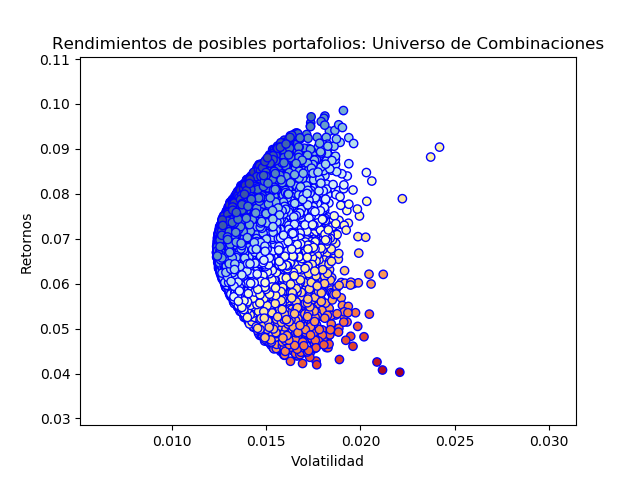
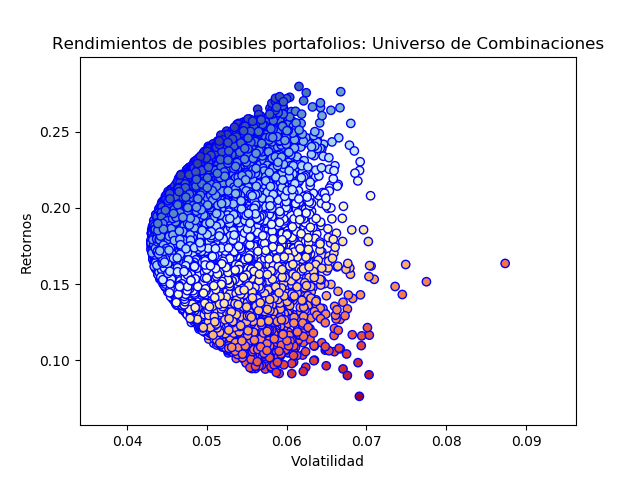
Add files via upload

diff --git a/Markowitz/Markowitz vs. The World.py b/Markowitz/Markowitz vs. The World.py
@@ -1,0 +1,81 @@
+import pandas as pd
+import matplotlib.pyplot as plt
+import numpy as np
+from datetime import datetime
+start = datetime(2010,1,4)
+import pandas_datareader.data as web
+
+#Parametros
+dias=600
+training_start = datetime(2010,1,4)
+training_finish = datetime(2018,6,15)
+testing_start = datetime(2019,1,1)
+testing_finish = datetime(2018,6,15)
+
+#Market Data
+market_data = web.get_data_yahoo(["^GSPC", "^GDAXI", "^FCHI",  "^N225", "^HSI", "^BVSP", "^MXX", "XWD.TO"], start)
+market_data = market_data["Close"].fillna(method="ffill")
+activos = ["^GSPC", "^GDAXI", "^FCHI",  "^N225", "^HSI", "^BVSP", "^MXX"] 
+
+#Risk Free
+US_rates = web.get_data_fred(["DTB3", "DGS3MO", "DTB6", "DGS6MO", "DTB1YR", "DGS2", "DGS10"], start).fillna(method="ffill")
+US_rates = (US_rates["DTB1YR"].loc[training_start:training_finish].mean()/100)
+
+training = market_data.loc[training_start:training_finish,activos].pct_change(dias).dropna().mean() - US_rates
+
+#FUNCIÃ“N DE PORTAFOLIO Ã“PTIMO
+def portafolio_optimo(retornos):
+    retornos_portafolio = []                                                 
+    volatilidad_portafolio = [] 
+    sharpe_ratio = []
+    pesos_activos = []
+    numero_activos = len(activos) 
+    simulaciones = 50000 
+    cov = np.cov(retornos) 
+    for portfolio_n in range(simulaciones):
+        pesos = np.random.random(numero_activos) 
+        pesos /= np.sum(pesos) 
+        retorno = np.dot(pesos, retornos) 
+        volatilidad = np.sqrt(np.dot(pesos.T, np.dot(cov, pesos))) 
+        sharpe = retorno/volatilidad 
+        retornos_portafolio.append(retorno) 
+        volatilidad_portafolio.append(volatilidad) 
+        sharpe_ratio.append(sharpe) 
+        pesos_activos.append(pesos)
+    portafolio = {'Retornos': retornos_portafolio,
+             'Volatilidad': volatilidad_portafolio,
+             'Ratio de Sharpe': sharpe_ratio}
+    for contador, activo in enumerate(activos):
+        portafolio[activo+' Peso'] = [Peso[contador] for Peso in pesos_activos]
+    global combinaciones, max_sharpe, info_sharpe, pesos_optimos 
+    
+    #Portafolio de Sharpe
+    combinaciones = pd.DataFrame(portafolio) 
+    max_sharpe = combinaciones["Ratio de Sharpe"].max() 
+    info_sharpe = combinaciones[combinaciones["Ratio de Sharpe"] == max_sharpe] 
+    pesos_optimos = info_sharpe.iloc[:,3:] 
+
+#OBTENGO PORTAFOLIO OPTIMO
+portafolio_optimo(training) 
+
+#Universo Ploteado
+plt.scatter(x=combinaciones["Volatilidad"], y=combinaciones["Retornos"], c=combinaciones["Ratio de Sharpe"], cmap='RdYlBu',edgecolors="b")
+plt.xlabel("Volatilidad")
+plt.ylabel("Retornos")
+plt.title("Rendimientos de posibles portafolios: Universo de Combinaciones")
+plt.show()
+
+#Testeo Portafolio Optimo
+retornos_listado = market_data.loc[testing_start:,activos].pct_change().dropna().T 
+retorno_acumulado = (np.matmul(pesos_optimos,retornos_listado)+1).cumprod()
+
+mercado = (market_data.loc[testing_start:, "XWD.TO"].pct_change().dropna()+1).cumprod()
+
+#Grafico Comparacion
+comparacion = np.column_stack([mercado, retorno_acumulado])  
+comparacion = pd.DataFrame(comparacion, columns=["MSCI World", "Portafolio Óptimo"], index=mercado.index).dropna()-1
+grafico_backtest = comparacion.plot()    
+plt.axhline(0, color="black", linewidth=1)
+grafico_backtest.set_ylim(-0.1, 0.2)
+plt.title("Backtest combinaciones óptimas")
+plt.show()
